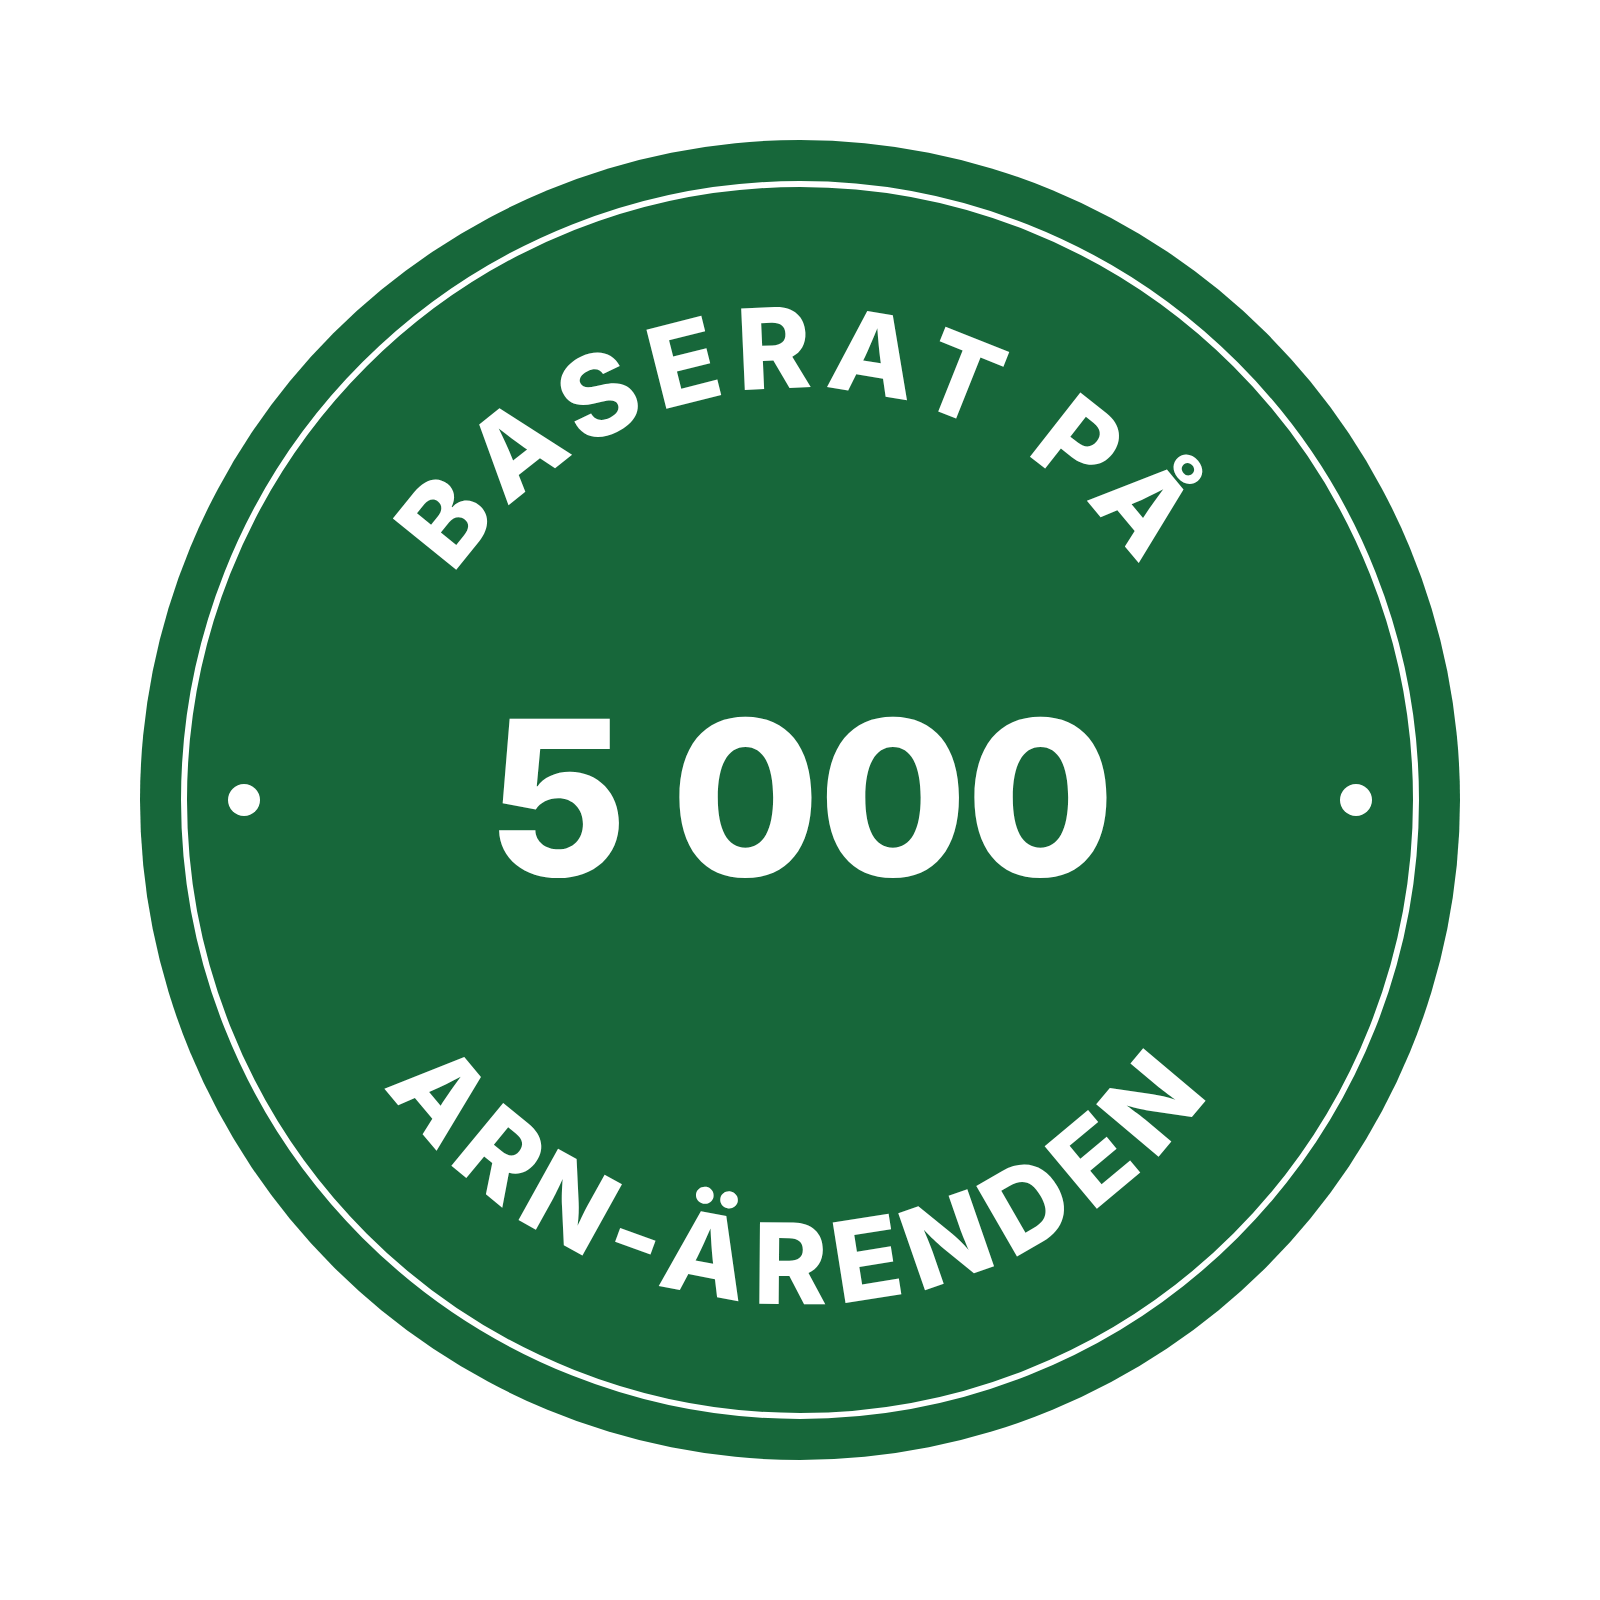
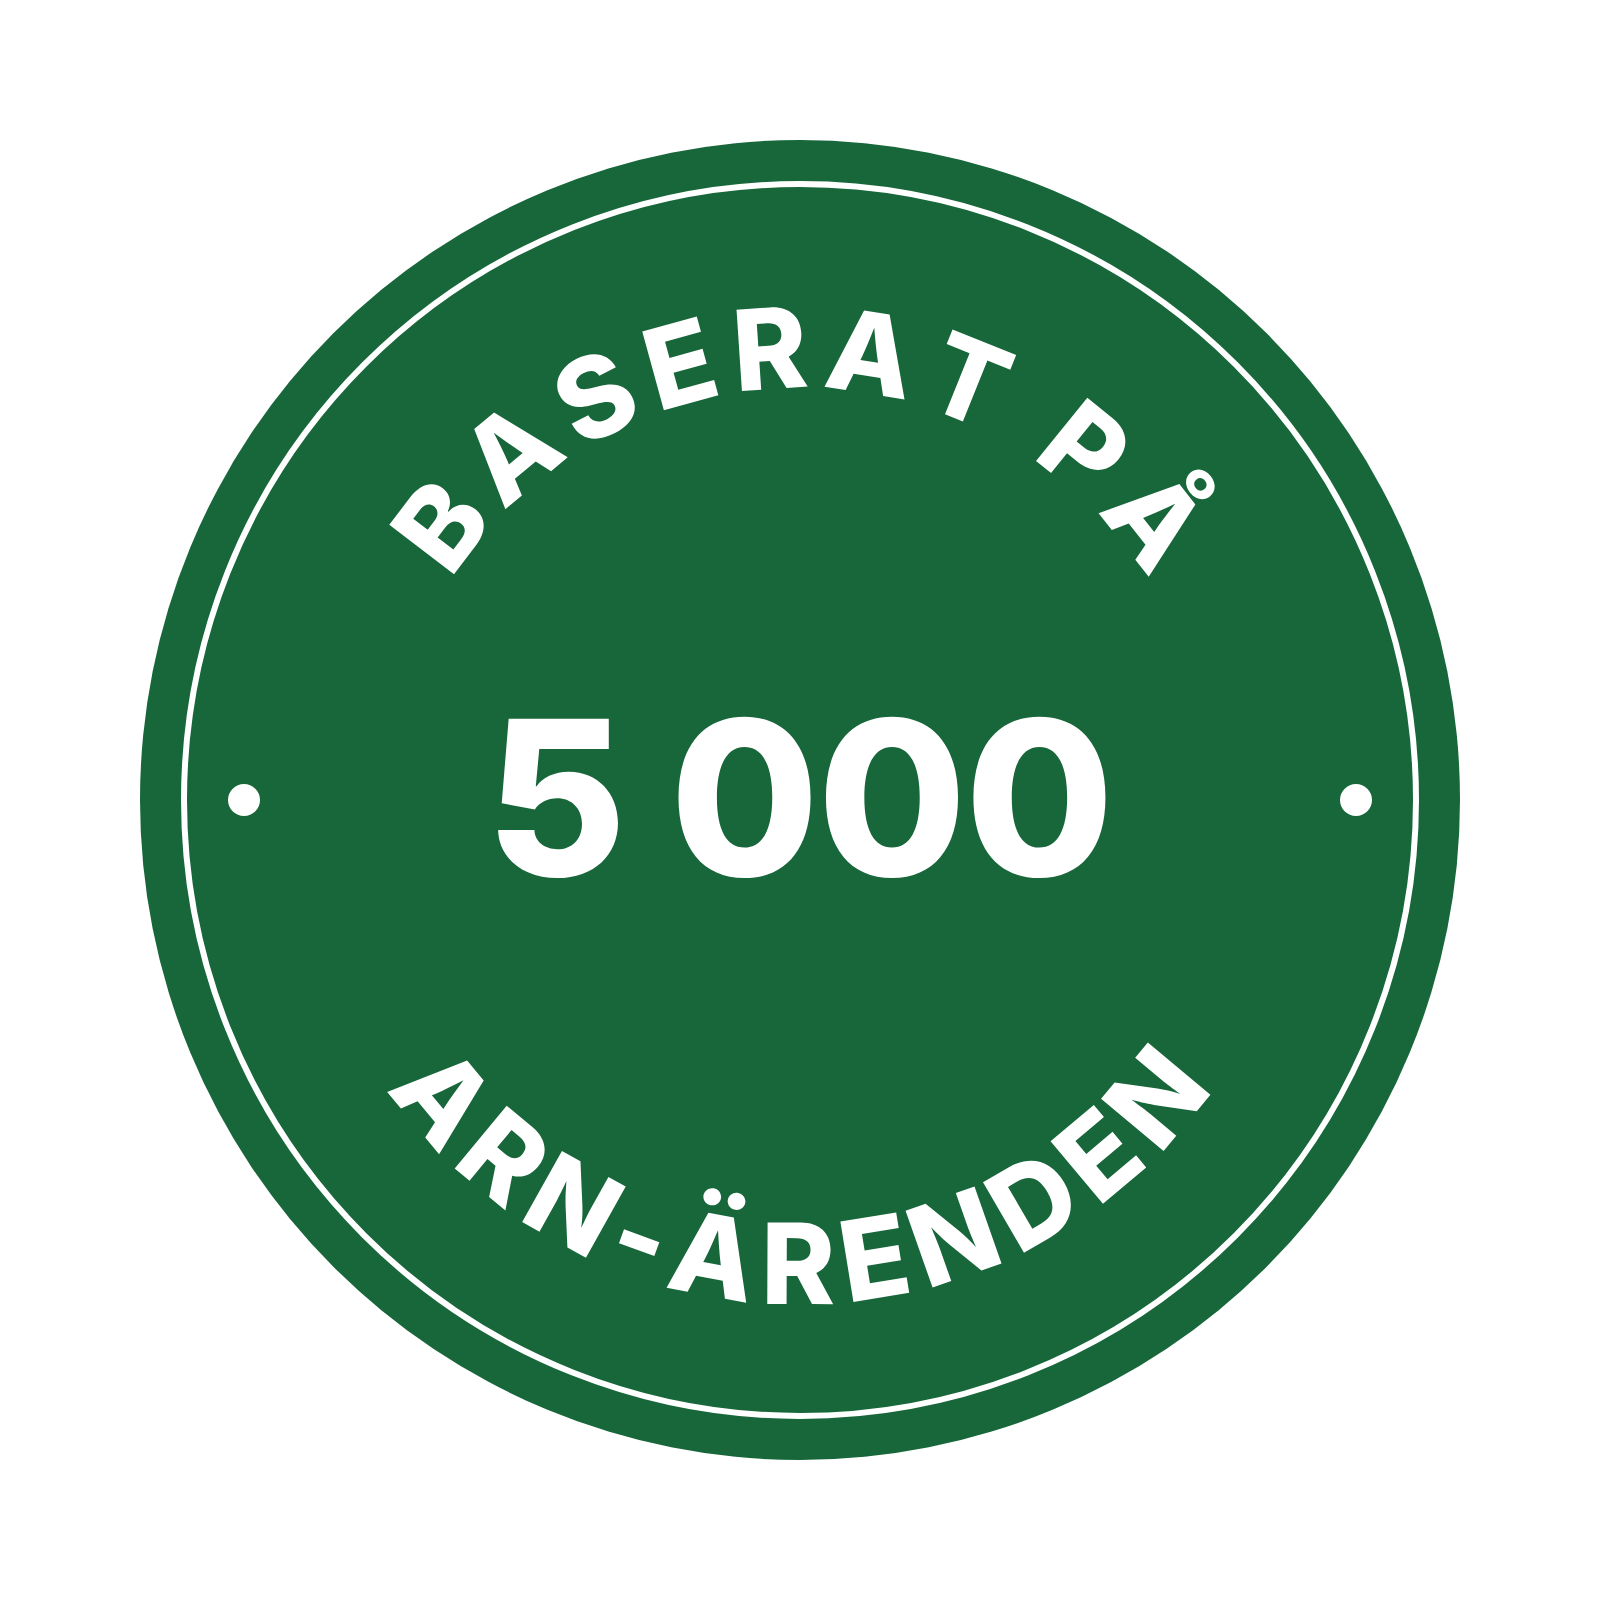
Badge: outline all text so the SVG renders the same in every app
Claude-Session: https://claude.ai/code/session_017PSvPsdzpte5i8Eexy1Bss

diff --git a/fixler-badge/README.md b/fixler-badge/README.md
@@ -10,8 +10,7 @@ Statisk badge, grön med vit text.
 ```
 
 ## Ändra
-- **Färg:** grönt är `#17673a` (fill på den stora cirkeln).
-- **Siffra:** texten `5 000`.
-- **Typsnitt:** SVG:n använder Red Hat Display om sidan har det, annars DM Sans, Inter
-  eller systemets typsnitt. Byt namnet om sajten har ett eget (i `font-family`-raden).
-  PNG:n är renderad med Inter.
+- **Färg:** grönt är `#17673a` (fill på den stora cirkeln). Texten och ringen är `#ffffff`.
+- **Text:** all text är omgjord till vektorformer (typsnitt Inter ExtraBold), så filen ser
+  likadan ut i alla program och kräver inget typsnitt. Det betyder också att texten inte
+  kan redigeras direkt i filen – säg till om siffran eller orden behöver ändras.
